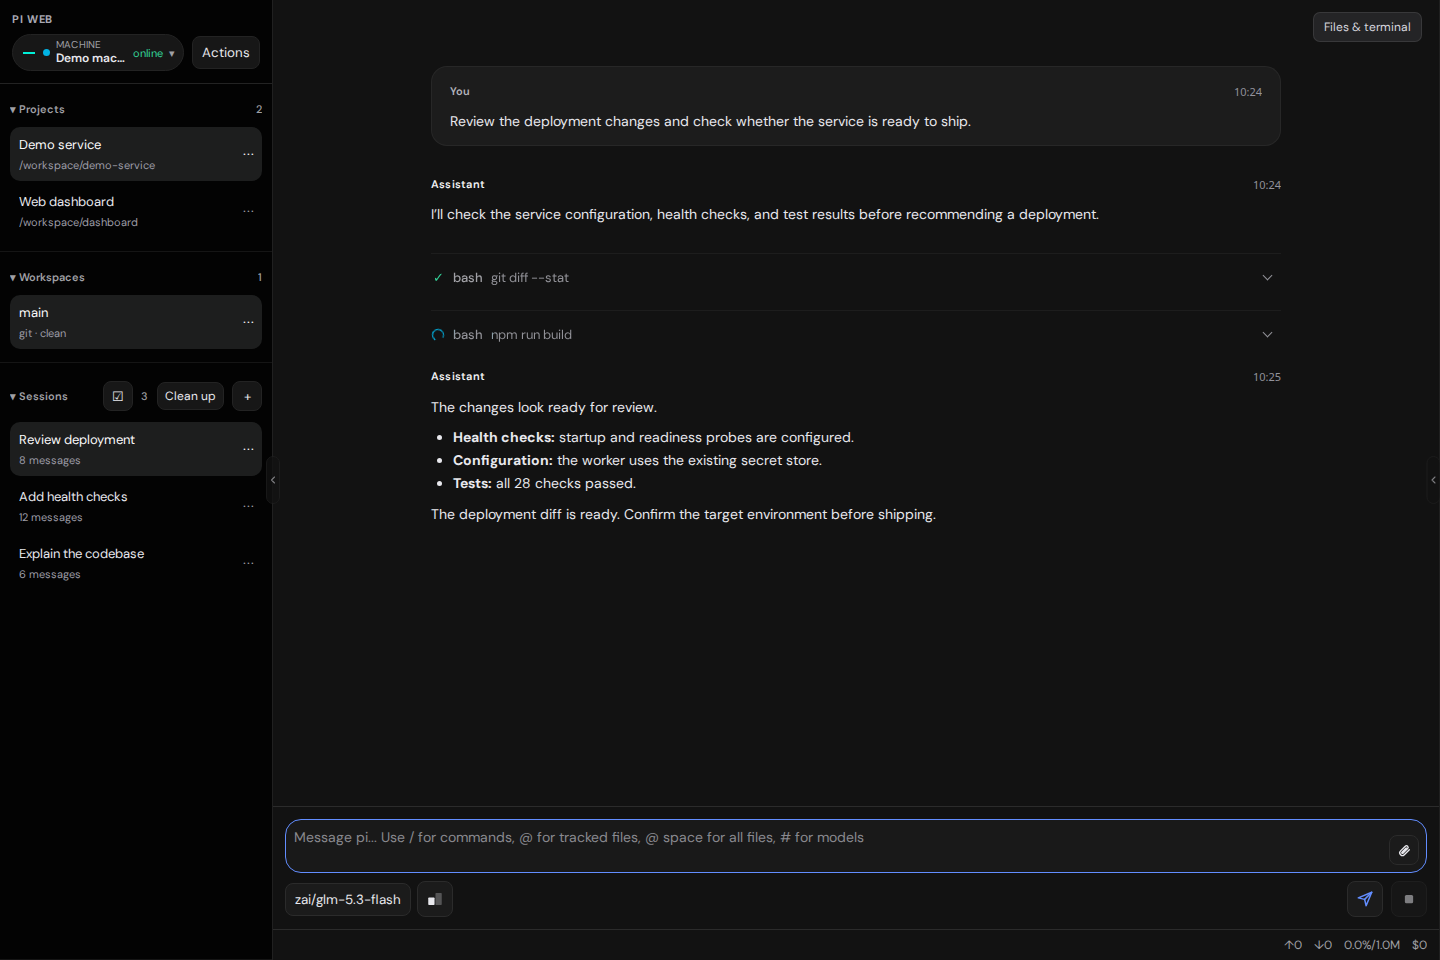
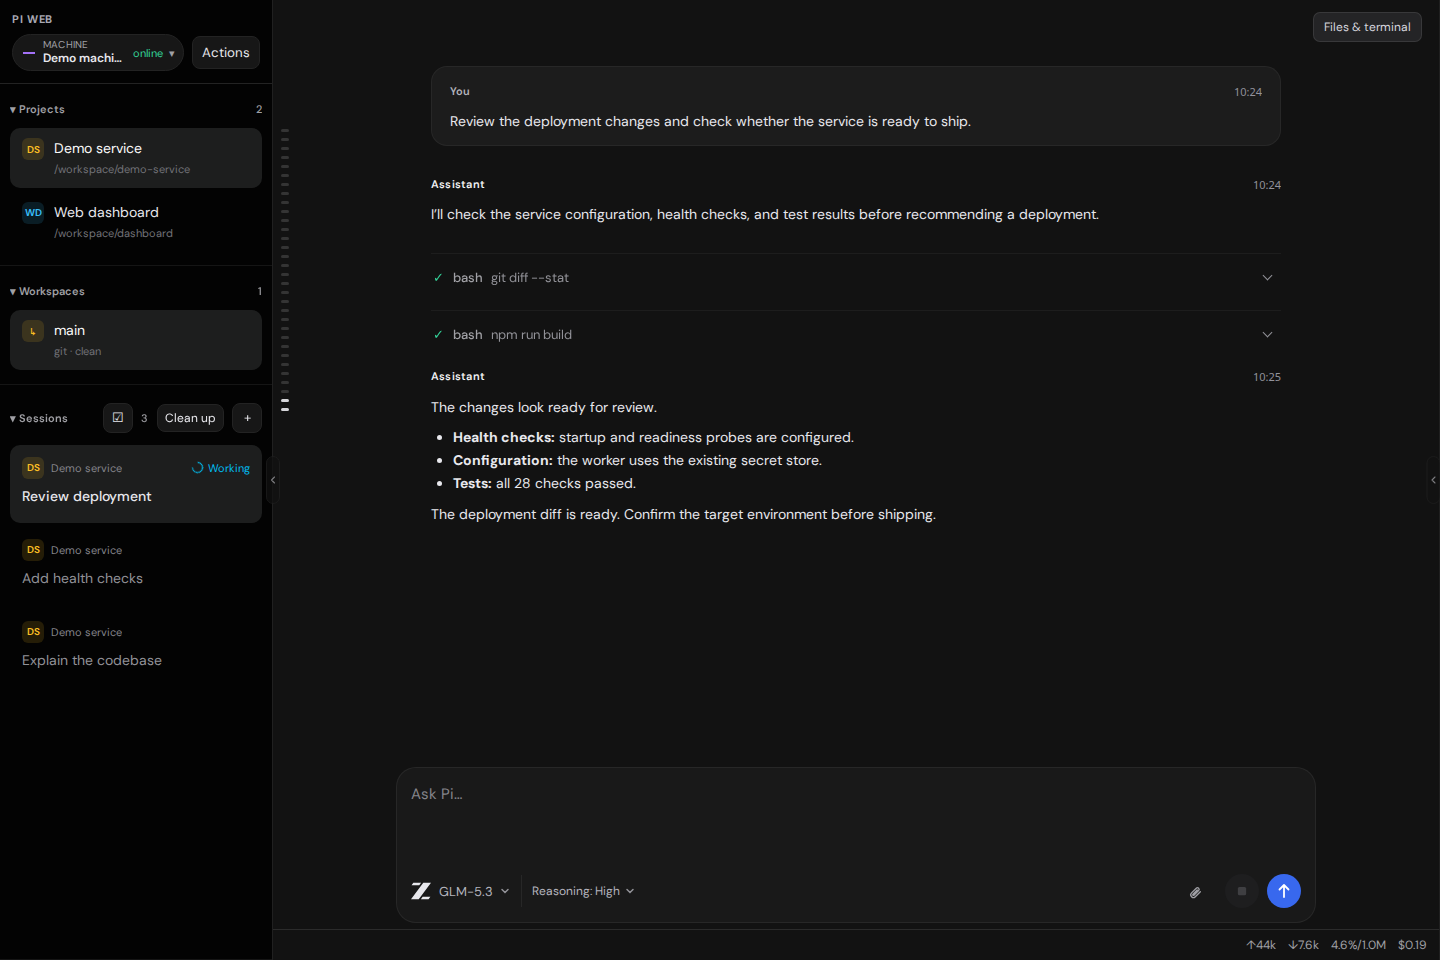
Polish tool activity and conversation navigation

diff --git a/browser/activity.js b/browser/activity.js
@@ -1,0 +1,77 @@
+const toolStates = new WeakMap();
+function text(element, value) { if (element.textContent !== value) element.textContent = value; }
+export function decorateActivity(root) {
+  if (document.documentElement.dataset.piWebTheme !== "vitesse:black") { clearActivity(root);return; }
+  const kind = root.host?.localName;
+  if (kind === 'tool-execution-view') {
+    const execution = root.host.execution;
+    const card = root.querySelector('.tool-card');
+    const title = root.querySelector('.tool-title');
+    if (!execution || !card || !title) return;
+    const active = ['pending', 'running'].includes(execution.status);
+    card.dataset.studioActive = String(active);
+    let label = title.querySelector('.studio-tool-label');
+    if (!label) { label = document.createElement('span'); label.className = 'studio-tool-label'; title.append(label); }
+    text(label, `${execution.status === 'pending' ? 'Starting' : 'Running'} ${execution.toolName || 'tool'}`);
+    let state = toolStates.get(root);
+    if (!state) {
+      state = { active: false, manual: false, onInteract: event => {
+        if (event.type === 'keydown' && !['Enter', ' '].includes(event.key)) return;
+        const summary = event.target.closest?.('summary');
+        if (summary && summary.parentElement.matches('.text-body')) {
+          state.manual = true;
+          state.manualOpen = !summary.parentElement.open;
+        }
+      }};
+      root.addEventListener('pointerdown', state.onInteract, true);
+      root.addEventListener('keydown', state.onInteract, true);
+      toolStates.set(root, state);
+    }
+    const details = root.querySelector('.text-body');
+    if (details && active && !state.active && !state.manual) details.open = true;
+    if (details && !active && state.active && !state.manual && execution.status !== 'error') details.open = false;
+    if (details && state.manual && state.status !== execution.status && execution.status !== 'error') details.open = state.manualOpen;
+    state.status = execution.status;
+    state.active = active;
+  }
+  if (kind === 'conversation-meter') {
+    const meter = root.querySelector('.meter');
+    if (!meter) return;
+    let ticks = meter.querySelector('.studio-ticks');
+    if (!ticks) {
+      ticks = document.createElement('div');ticks.className = 'studio-ticks';ticks.setAttribute('aria-hidden', 'true');
+      for (let i = 0; i < 32; i++) ticks.append(document.createElement('i'));
+      meter.append(ticks);
+    }
+    const percent = Math.min(100, Math.max(0, Number(root.host.positionPercent) || 0));
+    const current = Math.round(percent * 31 / 100);
+    for (const [i, tick] of [...ticks.children].entries()) {
+      const value = String(Math.abs(i - current) <= 1);
+      if (tick.dataset.current !== value) tick.dataset.current = value;
+    }
+  }
+  if (kind === 'chat-view') {
+    const host = root.host;
+    const chat = root.querySelector('.chat');
+    if (!chat) return;
+    const status = host.status;
+    const last = host.messages?.at(-1);
+    const thinking = status?.isStreaming && last?.role === 'assistant' && last.parts?.at(-1)?.type === 'thinking';
+    const label = host.isSendingPrompt ? 'Sending message' : status?.isCompacting ? 'Compacting conversation' : status?.isBashRunning ? 'Running command' : thinking ? 'Thinking' : status?.isStreaming ? 'Working' : '';
+    let indicator = root.querySelector('.studio-inline-activity');
+    if (!label) { indicator?.remove(); return; }
+    if (!indicator) {
+      indicator = document.createElement('div');indicator.className = 'studio-inline-activity';indicator.setAttribute('role', 'status');
+      const spinner = document.createElement('span');spinner.className = 'studio-inline-spinner';spinner.setAttribute('aria-hidden', 'true');
+      const caption = document.createElement('span');caption.className = 'studio-inline-label';indicator.append(spinner, caption);
+    }
+    text(indicator.lastElementChild, label);
+    if (chat.lastElementChild !== indicator) chat.append(indicator);
+  }
+}
+export function clearActivity(root) {
+  const state = toolStates.get(root);
+  if (state) { root.removeEventListener('pointerdown', state.onInteract, true);root.removeEventListener('keydown', state.onInteract, true);toolStates.delete(root); }
+  for (const element of root.querySelectorAll('.studio-tool-label, .studio-inline-activity, .studio-ticks')) element.remove();
+  root.querySelector('[data-studio-active]')?.removeAttribute('data-studio-active');
+}

diff --git a/browser/appearance.js b/browser/appearance.js
@@ -197,6 +197,23 @@ export function appearanceCss(s) {
     :host(prompt-editor)${s} .stop-button:disabled { background: #232326; color: #65656b; }
     :host(prompt-editor)${s} .steer-button { order: 2; }
 
+    .studio-tool-label, .studio-inline-activity, .studio-ticks { display: none; }
+    ${s} .tool-card[data-studio-active="true"] .tool-title > strong,
+    ${s} .tool-card[data-studio-active="true"] .tool-title > .summary,
+    ${s} .tool-card[data-studio-active="true"] .tool-title > .path { display: none; }
+    ${s} .tool-card[data-studio-active="true"] .studio-tool-label { display: inline; color: #a0a0a5; }
+    ${s} .activity-dock { display: none; }
+    ${s} .studio-inline-activity { display: flex; align-items: center; gap: 9px; max-width: 850px; margin: 16px auto 8px; color: #a0a0a5; font-size: 13px; line-height: 20px; }
+    ${s} .studio-inline-spinner { flex: 0 0 12px; width: 12px; height: 12px; box-sizing: border-box; border: 1.5px solid #00bff3; border-right-color: transparent; border-radius: 50%; animation: studio-tool-spin 900ms linear infinite; }
+    :host(conversation-meter)${s} { top: 32px; bottom: 26px; left: 8px; right: auto; width: 12px; height: auto; opacity: 1; pointer-events: none; }
+    :host(conversation-meter)${s} .track { display: none; }
+    ${s} .studio-ticks { display: flex; flex-direction: column; justify-content: center; gap: 6px; height: 100%; max-height: 400px; }
+    ${s} .studio-ticks i { display: block; flex: 0 0 3px; width: 8px; border-radius: 2px; background: #343434; }
+    ${s} .studio-ticks i[data-current="true"] { background: #d6d6da; }
+    @media (prefers-reduced-motion: reduce) {
+      ${s} .studio-inline-spinner { animation: none; }
+    }
+
     @media (max-width: 760px) {
       ${s} .context-chip { font-size: 12px; padding: 3px 7px; }
       ${s} .context-bar { padding: 4px 0; }
@@ -211,7 +228,7 @@ export function appearanceCss(s) {
       ${s} .action-main { padding-top: 10px; padding-bottom: 10px; }
     }
     @supports (background-clip: text) {
-      ${s} .tool-card.running .tool-title strong, ${s} .tool-card.running .tool-title .summary, ${s} summary[data-studio-thinking], ${s} .activity-dock.active .activity-text {
+      ${s} .tool-card.running .tool-title strong, ${s} .tool-card.running .tool-title .summary, ${s} summary[data-studio-thinking], ${s} .activity-dock.active .activity-text, ${s} .studio-tool-label, ${s} .studio-inline-label {
         background-image: linear-gradient(100deg, #929298 0%, #929298 38%, #e8e8ed 48%, #80d8f2 52%, #929298 62%, #929298 100%);
         background-size: 250% 100%; background-clip: text; -webkit-background-clip: text; color: transparent !important;
         animation: studio-text-sheen 3200ms ease-in-out infinite;
@@ -225,8 +242,8 @@ export function appearanceCss(s) {
     @media (prefers-reduced-motion: reduce) {
       ${s} button, ${s} .text-body > summary::before { transition: none; }
       ${s} .action-activity .activity-indicator, ${s} .studio-session-state::before { animation: none !important; }
-      ${s} .tool-card.running .tool-title strong, ${s} .tool-card.running .tool-title .summary, ${s} summary[data-studio-thinking], ${s} .activity-dock.active .activity-text { animation: none !important; background: none; color: #a0a0a5 !important; }
-      ${s} summary[data-studio-thinking], ${s} .activity-dock.active .activity-text { color: #00bff3 !important; }
+      ${s} .tool-card.running .tool-title strong, ${s} .tool-card.running .tool-title .summary, ${s} summary[data-studio-thinking], ${s} .activity-dock.active .activity-text, ${s} .studio-tool-label, ${s} .studio-inline-label { animation: none !important; background: none; color: #a0a0a5 !important; }
+      ${s} summary[data-studio-thinking], ${s} .activity-dock.active .activity-text, ${s} .studio-tool-label, ${s} .studio-inline-label { color: #00bff3 !important; }
       ${s} .tool-card, ${s} .status-icon, ${s} .status-icon::before, ${s} .detail-target, ${s} .detail-result, ${s} .diff, ${s} .activity-dock .dot, ${s} .activity-dock .dot::before, ${s} .activity-dock .dot::after, ${s} summary[data-studio-thinking]::before, ${s} summary[data-studio-thinking]::after, ${s} details.part[open] > formatted-text { animation: none !important; }
     }
   `;

diff --git a/browser/index.js b/browser/index.js
@@ -1,3 +1,4 @@
+import { decorateActivity, clearActivity } from "./activity.js";
 import { appearanceCss } from "./appearance.js";
 import { decorateNavigation, clearNavigation } from "./navigation.js";
 import { decorateModels, clearModels } from "./models.js";
@@ -82,6 +83,10 @@ function installChatContrast(signal) {
     icon.sizes = "any";
   }
   const roots = new Map();
+  const themeObserver = new MutationObserver(() => {
+    for (const root of roots.keys()) decorateActivity(root);
+  });
+  themeObserver.observe(document.documentElement, { attributes: true, attributeFilter: ["data-pi-web-theme"] });
   let disposed = false;
   let toolsButton;
   function rememberTools(event) {
@@ -123,7 +128,7 @@ function installChatContrast(signal) {
     if (root.host?.localName !== "chat-view") return;
     const chat = root.host;
     const last = chat.messages?.at(-1);
-    const active = chat.isSessionLive?.() === true;
+    const active = chat.status?.isStreaming === true;
     const thinking = active && (last?.role === "assistant" && last.parts?.at(-1)?.type === "thinking");
     const summaries = [...root.querySelectorAll("details.part:not(.skill-invocation) > summary")]
       .filter(summary => summary.textContent.trim().toLowerCase() === "thinking");
@@ -155,13 +160,15 @@ function installChatContrast(signal) {
         }
       }
       syncThinking(root);
+      decorateActivity(root);
       installToolsButton();
     });
     roots.set(root, observer);
-    observer.observe(root, { childList: true, subtree: true, characterData: ["project-list", "workspace-list", "session-list", "model-picker", "prompt-editor"].includes(root.host?.localName), ...(["project-list", "workspace-list", "session-list", "prompt-editor"].includes(root.host?.localName) ? { attributes: true, attributeFilter: ["class", "aria-label"] } : {}) });
+    observer.observe(root, { childList: true, subtree: true, characterData: ["project-list", "workspace-list", "session-list", "model-picker", "prompt-editor", "chat-view", "tool-execution-view"].includes(root.host?.localName), ...(["project-list", "workspace-list", "session-list", "prompt-editor", "conversation-meter", "tool-execution-view"].includes(root.host?.localName) ? { attributes: true, attributeFilter: ["class", "aria-label", "style"] } : {}) });
     decorateNavigation(root);
     decorateModels(root);
     syncThinking(root);
+    decorateActivity(root);
   }
   observe(document);
   discover(document);
@@ -183,6 +190,15 @@ function installChatContrast(signal) {
     for (const root of roots.keys()) decorateNavigation(root);
   }, 60000);
   let layoutTimer = setTimeout(syncLayout, 500);
+  // A pre-paint bootstrap can hold the shell until styles and fonts are ready.
+  const readyTimer = setTimeout(async () => {
+    await document.fonts.ready;
+    if (disposed) return;
+    syncLayout();
+    requestAnimationFrame(() => requestAnimationFrame(() => {
+      document.documentElement.removeAttribute("data-studio-loading");
+    }));
+  }, 550);
   function onResize() {
     clearTimeout(layoutTimer);
     layoutTimer = setTimeout(syncLayout, 100);
@@ -191,13 +207,17 @@ function installChatContrast(signal) {
   function dispose() {
     if (disposed) return;
     disposed = true;
+    themeObserver.disconnect();
     clearTimeout(layoutTimer);
     clearInterval(navigationTimer);
+    clearTimeout(readyTimer);
+    document.documentElement.removeAttribute("data-studio-loading");
     window.removeEventListener("resize", onResize);
     for (const [root, observer] of roots) {
       observer.disconnect();
       clearNavigation(root);
       clearModels(root);
+      clearActivity(root);
       root.removeEventListener("click", rememberTools, true);
       for (const summary of root.querySelectorAll("[data-studio-thinking]")) summary.removeAttribute("data-studio-thinking");
       if (root instanceof ShadowRoot) root.adoptedStyleSheets = root.adoptedStyleSheets.filter(s => s !== sheet);

diff --git a/README.md b/README.md
@@ -17,6 +17,9 @@ layout while preserving Pi Web's agent, sessions, and provider configuration.
 - Active thinking and working indicators, gentle entry and details animations, with reduced-motion support.
 - Compact model picker with provider logos, readable names, current-model badges, and native default controls.
 - One rounded composer panel with model and reasoning labels, attachments, send, and stop controls.
+- Active tools expand their command/output, then collapse on completion; manually expanded calls keep your choice.
+- Working/thinking status appears below the latest response; informational session updates stay out of the composer.
+- Vertical conversation-position ticks replace the horizontal meter.
 - Thin scrollbars, readable metadata, and responsive padding.
 
 ## Screenshots
@@ -28,6 +31,10 @@ Screenshots use sample projects and conversation content.
 Expanded tool command and output:
 
 ![Expanded tool details](docs/screenshots/tool-details.png)
+
+Model selection with provider logos and current/default indicators:
+
+![Model picker](docs/screenshots/model-picker.png)
 
 ## Install
 
@@ -57,6 +64,21 @@ Studio Dark. Theme choice and panel preference are browser-local.
 Install on each gateway whose URL you use directly. Theme selection is saved
 per browser and gateway URL; select it once on your phone too.
 
+### Avoid the initial theme flash
+
+The optional startup hook applies the selected palette before the app renders,
+then reveals the shell after the plugin and font are ready. It only runs when
+Studio Dark is already selected in that browser. On each gateway:
+
+```sh
+node scripts/install-startup.mjs --html /path/to/pi-web/dist/client/index.html
+```
+
+Use the `dist/client/index.html` inside your installed `@jmfederico/pi-web`
+package. The installer keeps a backup and can be repeated. Reapply this hook
+after updating Pi Web. Remove it with the same command plus `--remove`.
+If the plugin fails to load, the normal app becomes visible after four seconds.
+
 ## Update and remove
 
 ```sh
@@ -74,7 +96,7 @@ unlink "$HOME/.pi-web/plugins/vitesse"
 
 This uses the theme API and a scoped browser presentation layer. CSS classes
 and the panel-toggle labels must be reviewed after Pi Web upgrades.
-No backend or installed application files are patched. Provider settings and
+The optional startup hook adds a small pre-paint block to the installed client HTML; no server execution code is changed. Provider settings and
 session data are not changed. Disposal removes styles, observers, font, and
 injected controls. Disconnected message roots are released by the observer.
 
